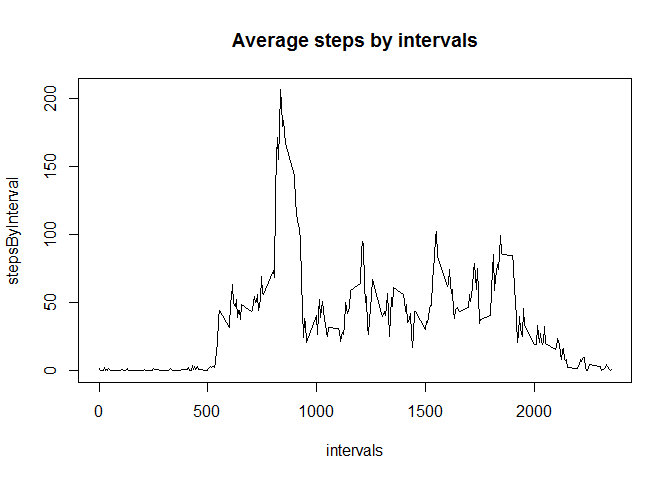
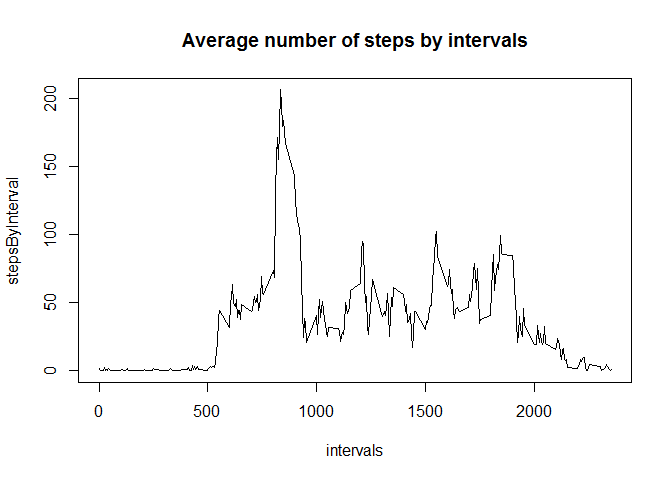
fixed a typo

Changed region(s): [[0.25, 0.0625, 0.7812, 0.125]]

diff --git a/PA1_template.html b/PA1_template.html
@@ -106,8 +106,8 @@ medianSteps&lt;-median(stepsPerDay, na.rm=T)</code></pre>
 <h4>Make a time series plot of the 5-minute interval (x-axis) and the average number of steps taken, averaged across all days (y-axis)</h4>
 <pre class="r"><code>stepsByInterval&lt;-tapply(givenData$steps, givenData$interval, mean, na.rm=T)
 intervals&lt;-names(stepsByInterval)
-plot(x=intervals, y=stepsByInterval, type=&quot;l&quot;, main=&quot;Average steps by intervals&quot;)</code></pre>
[1 lines of base64/hex data omitted]
+plot(x=intervals, y=stepsByInterval, type=&quot;l&quot;, main=&quot;Average number of steps by intervals&quot;)</code></pre>
[1 lines of base64/hex data omitted]
 </div>
 <div id="which-5-minute-interval-on-average-across-all-the-days-in-the-dataset-contains-the-maximum-number-of-steps" class="section level4">
 <h4>Which 5-minute interval, on average across all the days in the dataset, contains the maximum number of steps?</h4>

diff --git a/PA1_template.md b/PA1_template.md
@@ -59,7 +59,7 @@ medianSteps<-median(stepsPerDay, na.rm=T)
 ```r
 stepsByInterval<-tapply(givenData$steps, givenData$interval, mean, na.rm=T)
 intervals<-names(stepsByInterval)
-plot(x=intervals, y=stepsByInterval, type="l", main="Average steps by intervals")
+plot(x=intervals, y=stepsByInterval, type="l", main="Average number of steps by intervals")
 ```
 
 ![](PA1_template_files/figure-html/AverageStepsInInterval-1.png) 
